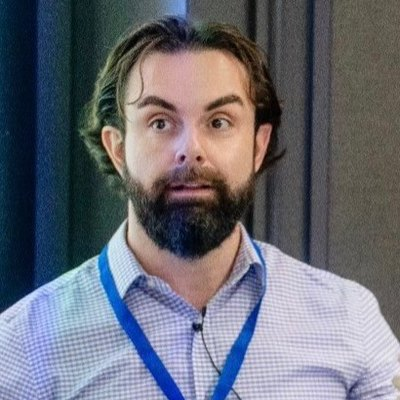
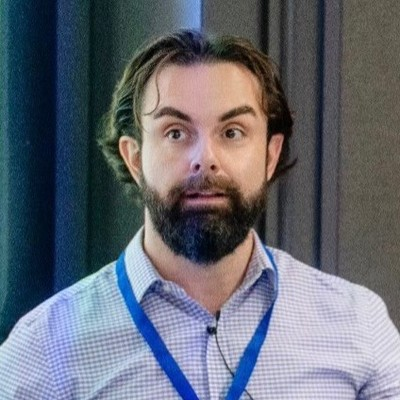
Add files via upload

diff --git a/site.css b/site.css
@@ -49,7 +49,7 @@ a:focus-visible { outline: 2px solid var(--accent); outline-offset: 2px; border-
   background-image: linear-gradient(rgba(23, 98, 95, 0.07) 1px, transparent 1px),
                     linear-gradient(90deg, rgba(23, 98, 95, 0.07) 1px, transparent 1px);
   background-size: 56px 56px; mask-image: linear-gradient(180deg, #000 0, transparent 78%); }
-.hero-layout { position: relative; display: grid; grid-template-columns: minmax(0, 1.25fr) minmax(300px, 0.75fr); gap: 48px; align-items: center; }
+.hero-layout { position: relative; display: grid; grid-template-columns: minmax(0, 1fr) minmax(300px, 1fr); gap: 40px; align-items: center; }
 .hero .shell { position: relative; }
 .eyebrow { display: inline-flex; align-items: center; gap: 10px; margin: 0 0 18px; color: var(--accent);
   font-size: 0.95rem; font-weight: 650; text-transform: uppercase; }
@@ -64,8 +64,8 @@ h1 { font-size: clamp(2.6rem, 5.4vw, 4.8rem); font-weight: 700; line-height: 1.0
 .interests li { padding: 6px 12px; border-radius: var(--radius); background: var(--block-1); color: var(--body); font-size: 0.92rem; font-weight: 600; }
 
 .hero-panel { background: var(--block-1); border-radius: var(--radius); padding: 24px;
-  display: grid; grid-template-columns: 120px 1fr; gap: 20px; align-items: center; }
-.hero-panel img { width: 120px; height: 120px; object-fit: cover; border-radius: var(--radius); display: block; }
+  display: grid; grid-template-columns: 180px 1fr; gap: 24px; align-items: center; }
+.hero-panel img { width: 180px; height: 180px; object-fit: cover; border-radius: var(--radius); display: block; }
 .panel-label { display: block; color: var(--muted); font-size: 0.82rem; font-weight: 650; text-transform: uppercase; }
 .panel-email { display: block; margin-top: 6px; font-size: 1.02rem; }
 .panel-office { display: block; margin-top: 2px; color: var(--muted); font-size: 0.92rem; }
@@ -135,8 +135,8 @@ footer { padding: 32px 0; border-top: 1px solid var(--line); color: var(--muted)
 @media (max-width: 620px) {
   .shell { width: calc(100% - 28px); }
   .navlinks a { padding: 7px 9px; font-size: 0.92rem; }
-  .hero-panel { grid-template-columns: 88px 1fr; padding: 18px; }
-  .hero-panel img { width: 88px; height: 88px; }
+  .hero-panel { grid-template-columns: 120px 1fr; padding: 18px; }
+  .hero-panel img { width: 120px; height: 120px; }
   .dated { grid-template-columns: 1fr; gap: 2px; }
 }
 .subnav .pill { background: var(--block-1); }
